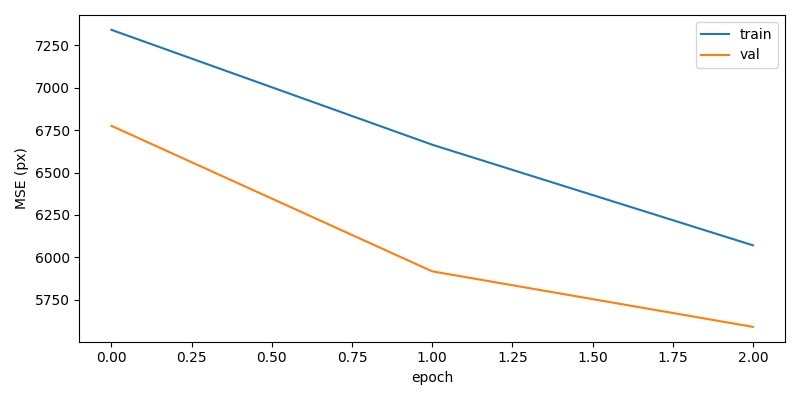
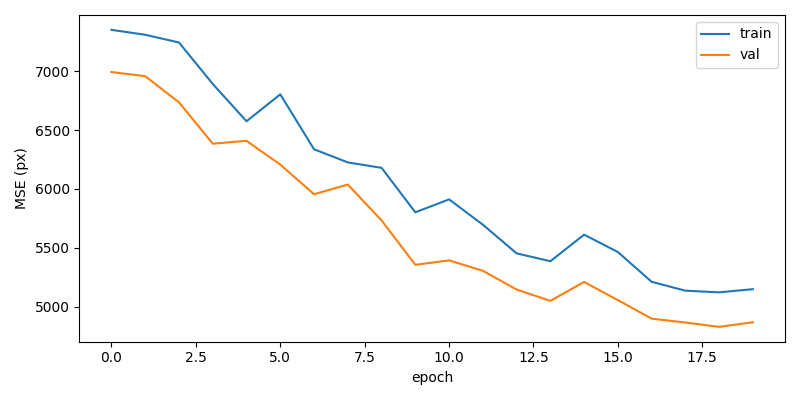
calibrated model

diff --git a/model/inference.py b/model/inference.py
@@ -15,6 +15,8 @@ DEF_WIDTH, DEF_HEIGHT = 1512, 950            # edit if needed
 '''
 
 python inference.py --show --auto-crop --checkpoint checkpoints/vit_gaze_personal.pth --image '/home/monsterharry/Documents/eye-tracking-vit/Eye-Tracking-ViT/data/zhihao_shu/4/image10.jpg' 
+python inference.py --show --auto-crop --checkpoint checkpoints/vit_gaze_best.pth --image '/home/monsterharry/Documents/eye-tracking-vit/Eye-Tracking-ViT/data/zhihao_shu/4/image10.jpg' 
+
 '''
 # ---------------------------------------------------------------------------#
 #  ─── utilities ──────────────────────────────────────────────────────────── #
@@ -27,70 +29,76 @@ def angle_to_pixel(ang_xy, W, H):
 
 def classify_region(x, y, W, H):
     """
-    Return a human-readable region label and distance from centre.
-
-    ┌──────────┬──────────┬──────────┬──────────┬──────────┐
-    │ upper-lt │  upper-l │  upper   │ upper-r  │ upper-rt │
-    ├──────────┼──────────┼──────────┼──────────┼──────────┤
-    │ slightly │ slightly │          │ slightly │ slightly │
-    │   lt     │    l     │  centre  │    r     │    rt    │
-    ├──────────┼──────────┼── centre ┼──────────┼──────────┤
-    │ slightly │ slightly │          │ slightly │ slightly │
-    │   lb     │    l     │          │    r     │    rb    │
-    └──────────┴──────────┴──────────┴──────────┴──────────┘
+    Return:
+      • code: str  –  '01' for top-left, incrementing left→right, top→bottom,
+                     centre cell = '00'
+      • dist: float – Euclidean distance from screen center
+    Uses a 7×7 grid for higher sensitivity.
     """
-    # relative position in [0,1]
+    # 1) Relative in [0,1]
     rel_x, rel_y = x / W, y / H
 
-    # fine grid thresholds (5×5)
-    #   0.00 0.20 0.40 0.60 0.80 1.00
-    idx_x = int(min(4, rel_x // .20))
-    idx_y = int(min(4, rel_y // .20))
+    # 2) Grid size
+    N = 7
+    idx_x = int(min(N-1, rel_x * N))
+    idx_y = int(min(N-1, rel_y * N))
 
-    # map indices to words
-    hori = ['left', 'slightly left', 'centre', 'slightly right', 'right']
-    vert = ['upper', 'slightly upper', 'centre', 'slightly lower', 'lower']
-
-    # small dead-centre (5 % of each dimension)
-    if abs(rel_x - .5) < .05 and abs(rel_y - .5) < .05:
-        region = 'dead-centre'
+    # 3) Centre cell check
+    center = N // 2  # 3
+    if idx_x == center and idx_y == center:
+        code = '00'
     else:
-        region = f'{vert[idx_y]} {hori[idx_x]}'.replace('centre centre', 'centre')
+        num = idx_y * N + idx_x + 1  # 1…49
+        code = f'{num:02d}'
 
-    # Euclidean distance to screen centre
+    # 4) Distance from centre
     dist = math.hypot(x - W/2, y - H/2)
-    return region.strip(), dist
+
+    return code, dist
 
 def draw_arrow(img: Image.Image, ang_xy, save=None, show=False):
-    w, h      = img.size
-    cx, cy    = w / 2, h / 2
-    scale     = min(w, h) / 4
-    ex, ey    = cx + ang_xy[0] * scale, cy + ang_xy[1] * scale
+    """
+    Draw the gaze arrow and overlay all 5×5 region centers labeled with codes.
+    """
+    w, h = img.size
+    cx, cy = w/2, h/2
+    scale = min(w, h) / 4
+    ex, ey = cx + ang_xy[0]*scale, cy + ang_xy[1]*scale
 
-    fig, ax = plt.subplots(figsize=(8, 6))
+    fig, ax = plt.subplots(figsize=(8,6))
     ax.imshow(img)
     ax.axis('off')
 
-    # ─── draw a single arrow from centre to end-point ──────────────────
-    ax.annotate(
-        '',                     # no text
-        xy=(ex, ey),            # arrow tip
-        xytext=(cx, cy),        # arrow tail
-        arrowprops=dict(
-            arrowstyle='->',    # normal arrow-head
-            linewidth=3,
-            color='red',
-            shrinkA=0, shrinkB=0   # don’t shorten at either end
-        )
-    )
+    # 1) plot all grid‐cell centers and codes
+    for row in range(5):
+        for col in range(5):
+            # cell center
+            gx = (col + 0.5) * w / 5
+            gy = (row + 0.5) * h / 5
+
+            # compute code: center cell = '00', else 01..25
+            if row == 2 and col == 2:
+                code = '00'
+            else:
+                num = row*5 + col + 1
+                code = f'{num:02d}'
+
+            # plot marker and label
+            ax.plot(gx, gy, marker='.', color='white', markersize=8, alpha=0.6)
+            ax.text(gx, gy, code, color='white', fontsize=6,
+                    ha='center', va='center', alpha=0.8)
+
+    # 2) draw a single red arrow
+    ax.annotate('', xy=(ex,ey), xytext=(cx,cy),
+                arrowprops=dict(arrowstyle='->', color='red', linewidth=3, shrinkA=0, shrinkB=0))
 
     ax.set_title(f'angle ({ang_xy[0]:+.2f}, {ang_xy[1]:+.2f})')
 
     if save:
         fig.savefig(save, bbox_inches='tight')
         print(f'✓ saved {save}')
-    # if show:
-    #     plt.show()
+    if show:
+        plt.show()
     plt.close(fig)
 
 def auto_crop_face(pil_img, margin=0.25):

diff --git a/model/train.py b/model/train.py
@@ -15,7 +15,7 @@ from model   import ViTGazePredictor      # ViT regressor
 DATA_DIR    = "/home/monsterharry/Documents/eye-tracking-vit/Eye-Tracking-ViT/datasets/MPIIFaceGaze_normalizad"
 SAMPLES_PP  = None       # None = all 3000
 BATCH_SIZE  = 4
-NUM_EPOCHS  = 3
+NUM_EPOCHS  = 20
 USE_PIXELS  = True     # leave False unless you really want pixel targets
 SCREEN_W, SCREEN_H = 1440, 900
 SEED        = 42

diff --git a/model/calibrate.py b/model/calibrate.py
@@ -184,7 +184,7 @@ print("✓ model backbone frozen, gaze_head unfrozen for fine-tuning")
 opt   = optim.AdamW(model.gaze_head.parameters(), lr=3e-4)
 lossf = nn.MSELoss()
 
-EPOCHS = 12
+EPOCHS = 100
 model.train()
 for epoch in range(1, EPOCHS+1):
     running = 0.0
